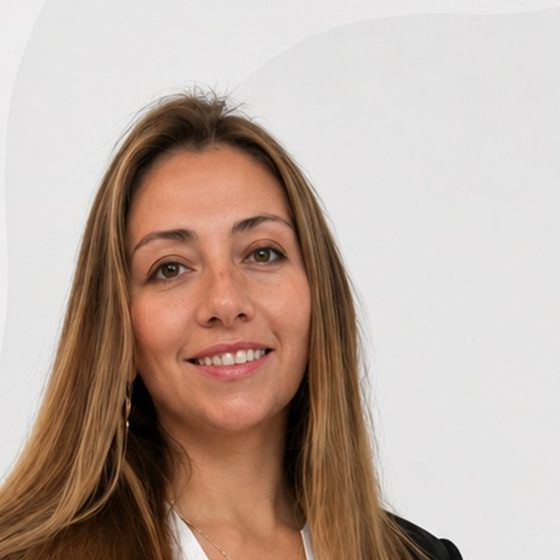
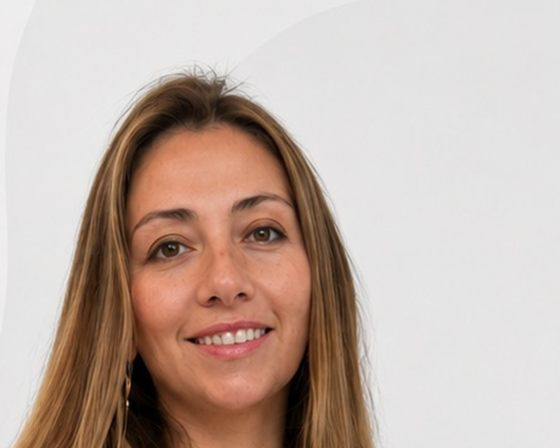
refactor: fotos del equipo a 5:4 y baja la sección Historia
Las tarjetas del grid pasan de cuadrado a 5:4 apaisado. Cuadrada,
la foto seguía midiendo más alto que el texto que acompaña.

Elimina la sección Historia. Se apoyaba en imagen-mambo1.jpg, un
render genérico de una casa que no es de Mambo, y era la única
imagen no real de una página construida sobre seis retratos
verdaderos. El manifiesto además repetía lo que la bio de Sandra
ya dice con su firma.

Los retratos se rehacen desde los originales, no reescalando el
recorte anterior, para no acumular pérdida de compresión.
Peso: 203 KB -> 168 KB.

Changed region(s): [[0.0, 0.1875, 0.8196, 1.0], [0.3036, 0.1562, 0.3946, 0.1875]]

diff --git a/client/src/pages/public/Nosotros.tsx b/client/src/pages/public/Nosotros.tsx
@@ -23,33 +23,6 @@ export default function Nosotros() {
         </div>
       </section>
 
-      {/* ── Historia ── */}
-      <section className="nosotros-historia">
-        <div className="section-container nosotros-historia-grid">
-          <div className="nosotros-historia-texto">
-            <span className="section-label">El grupo</span>
-            <h2>Una forma distinta de acompañar</h2>
-            <p>
-              Mambo Group nació de una decisión: llevar más de veinte años de experiencia
-              liderando empresas y equipos de trabajo al mercado inmobiliario, y hacerlo de
-              otra manera. Más humana, más cercana, más comprometida con las personas.
-            </p>
-            <p>
-              Esa forma de trabajar se sostiene sobre tres cosas que no negociamos:
-              transparencia en cada operación, capacitación permanente del equipo y un
-              acompañamiento genuino antes, durante y después de cada negocio.
-            </p>
-          </div>
-
-          <div
-            className="nosotros-historia-foto"
-            style={{ backgroundImage: 'url(/imagen-mambo1.jpg)' }}
-            role="img"
-            aria-label="Equipo de Mambo Group"
-          />
-        </div>
-      </section>
-
       {/* ── Equipo ── */}
       <section className="nosotros-equipo">
         <div className="section-container">

diff --git a/client/src/pages/public/Nosotros.css b/client/src/pages/public/Nosotros.css
@@ -56,51 +56,6 @@
   position: relative;
 }
 
-/* ── Historia ─────────────────────────────────────────────────── */
-
-.nosotros-historia {
-  padding: var(--space-8) 2rem;
-  background: var(--white);
-}
-
-.nosotros-historia-grid {
-  display: grid;
-  grid-template-columns: 1fr 1fr;
-  gap: var(--space-8);
-  align-items: center;
-}
-
-.nosotros-historia-texto h2 {
-  font-family: var(--font-serif);
-  font-size: clamp(1.9rem, 3.5vw, 2.6rem);
-  font-weight: 600;
-  color: var(--petrol);
-  line-height: 1.12;
-  margin: 0.4rem 0 1.5rem;
-}
-
-.nosotros-historia-texto p {
-  font-size: 0.92rem;
-  line-height: 1.8;
-  color: var(--text-muted);
-}
-
-.nosotros-historia-texto p + p {
-  margin-top: 1.1rem;
-}
-
-.nosotros-historia-foto {
-  min-height: 380px;
-  border-radius: var(--radius-md);
-  background: var(--bone) center / cover no-repeat;
-  box-shadow: var(--shadow-card);
-}
-
-@media (max-width: 860px) {
-  .nosotros-historia-grid { grid-template-columns: 1fr; gap: var(--space-6); }
-  .nosotros-historia-foto { min-height: 240px; }
-}
-
 /* ── Equipo: la fundadora ─────────────────────────────────────── */
 
 .nosotros-equipo {

diff --git a/client/src/components/PersonaCard.css b/client/src/components/PersonaCard.css
@@ -15,10 +15,10 @@
   transform: translateY(-4px);
 }
 
-/* Cuadrada y no 3:4: con cinco tarjetas, el retrato vertical estiraba
-   demasiado la página y empujaba las bios fuera de vista. */
+/* 5:4 apaisada. Con cinco tarjetas, el retrato vertical estiraba la página
+   y empujaba las bios fuera de vista; el cuadrado seguía siendo alto. */
 .persona-card-foto {
-  aspect-ratio: 1 / 1;
+  aspect-ratio: 5 / 4;
   background: var(--bone);
 }
 

diff --git a/client/src/components/PersonaCard.tsx b/client/src/components/PersonaCard.tsx
@@ -6,7 +6,7 @@ export default function PersonaCard({ persona: p }: { persona: Persona }) {
   return (
     <article className="persona-card">
       <div className="persona-card-foto">
-        <img src={fotoDe(p)} alt={altDe(p)} width={560} height={560} loading="lazy" />
+        <img src={fotoDe(p)} alt={altDe(p)} width={560} height={448} loading="lazy" />
       </div>
 
       <div className="persona-card-body">

diff --git a/docs/superpowers/specs/2026-08-04-pagina-nosotros-equipo-design.md b/docs/superpowers/specs/2026-08-04-pagina-nosotros-equipo-design.md
@@ -21,7 +21,7 @@ historia, cifras, valores, equipo y CTA. De esas, tres arrastran `TODO`:
 | Sección | Estado hoy | Destino |
 |---|---|---|
 | Hero | Copy genérico usable | Se conserva, ajustando el nombre de la marca |
-| Historia | `TODO: reemplazar por la historia real` | Se reescribe con material real |
+| Historia | `TODO: reemplazar por la historia real` | **Se elimina** |
 | Cifras | `+10 años`, `+200 operaciones` — inventadas | **Se elimina** |
 | Valores | `Claridad / Orden / Decisión` — inventados | **Se elimina** |
 | Equipo | Tres círculos vacíos | Se reescribe: 6 personas reales |
@@ -145,12 +145,12 @@ Los seis archivos se recortan y reexportan una sola vez, antes de tocar el CSS:
 - **Encuadre:** de pecho para arriba, comparable entre las seis. Ni cuerpo entero (Sandra
   quedaría chica) ni primer plano cerrado.
 - **Relación:** dos formatos, para que el CSS no tenga que compensar nada.
-  - **1:1 a 560×560** para las cinco del grid. Se eligió cuadrado sobre 3:4 después de
-    ver la página armada: con cinco tarjetas, el retrato vertical estiraba la sección
-    y empujaba las bios fuera de vista.
+  - **5:4 a 560×448** para las cinco del grid. El 3:4 original estiraba la sección y
+    empujaba las bios fuera de vista; el cuadrado seguía siendo alto. Apaisado, la foto
+    mide menos que el texto que acompaña y la tarjeta se lee de un vistazo.
   - **3:4 a 640×853** para la fundadora, que va en una fila de dos columnas y sí sostiene
     un retrato vertical.
-- **Formato:** JPEG calidad 82. Resultado: **203 KB** en total, contra 1.079 KB de origen.
+- **Formato:** JPEG calidad 82. Resultado: **167 KB** en total, contra 1.079 KB de origen.
 - **Nombres:** se normalizan a `client/public/equipo/<slug>.jpg`, en minúsculas y sin
   tildes, donde `<slug>` es el mismo campo de `Persona` (§7): `sandra`, `luisina`,
   `belen`, `agustina`, `nadia`, `marianela`. Hoy la capitalización de los archivos es
@@ -178,18 +178,27 @@ es ~1.5×. No llega a 2× retina, pero son retratos con fondo liso y poco detall
 subir a 760 px duplicaría el peso para una diferencia que no se ve. La fundadora, a
 330 px de ancho con una fuente de 640 px, sí queda cerca de 2×.
 
+Los recortes se calibraron a mano y se revisaron uno por uno sobre la imagen generada, no
+a ojo sobre el original: la primera pasada dejaba restos del logo (`OUP`, `UP`) en Sandra,
+Belén y Nadia. Cada cambio de relación se rehace **desde los originales**, nunca
+reescalando un recorte anterior, para no acumular pérdida de compresión.
+
 ## 6. Estructura de la página
 
 ```
 [Hero]       Quiénes somos — campo petróleo, sin cambios estructurales
-[Historia]   Manifiesto en dos columnas: texto + foto
 [Equipo]     Sandra destacada  →  grid de 5
 [CTA]        Contactanos / Ver propiedades
 ```
 
-**Historia** se reescribe con material real (los veinte años de gestión de empresas de
-Sandra, la fundación de Mambo Group, la filosofía de transparencia y acompañamiento). No
-se inventa nada: todo sale de su bio. Conserva el layout de dos columnas actual.
+**Historia se elimina.** Se llegó a reescribir con material real de la bio de Sandra, pero
+al ver la página armada quedó claro que no se sostenía: la sección se apoyaba en
+`imagen-mambo1.jpg`, un render genérico de una casa que no es de Mambo ni de Tucumán, y
+era la única imagen no real de una página construida sobre seis retratos verdaderos. El
+manifiesto además repetía lo que la bio de Sandra ya dice mejor y con su firma. La página
+va del hero directo a las personas.
+
+Esto deja `client/public/imagen-mambo1.jpg` sin ningún uso en el código.
 
 **CTA** se conserva tal cual. Es la única página institucional del sitio y sin él la
 página termina en seco en la última tarjeta.
@@ -239,8 +248,8 @@ es el único uso del acento en toda la sección, según la regla de escasez de l
 Los dos párrafos en sans, `--text-muted`.
 
 **Grid.** Fondo `--bone` para separarlo de la fila de Sandra sin necesidad de una línea.
-Cada tarjeta: foto cuadrada con `--radius-md`, nombre en serif `--petrol`, rol en
-versalitas `--text-muted`, cita en serif itálica, bio en sans a `0.82rem`.
+Cada tarjeta: foto 5:4 con `--radius-md`, nombre en serif `--petrol`, rol en versalitas
+`--text-muted`, cita en serif itálica, bio en sans a `0.82rem`.
 
 **Hover:** `translateY(-4px)` y de `--shadow-card` a `--shadow-hover`, la misma transición
 que ya usan las tarjetas de propiedades. Sin zoom sobre la foto: son retratos de personas
